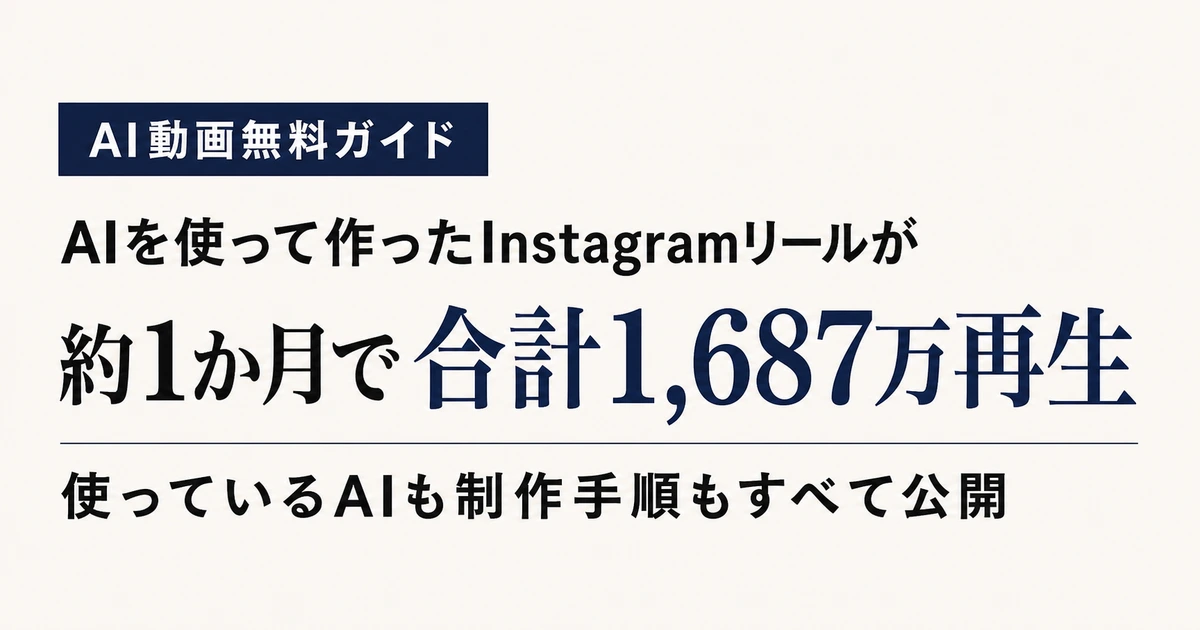
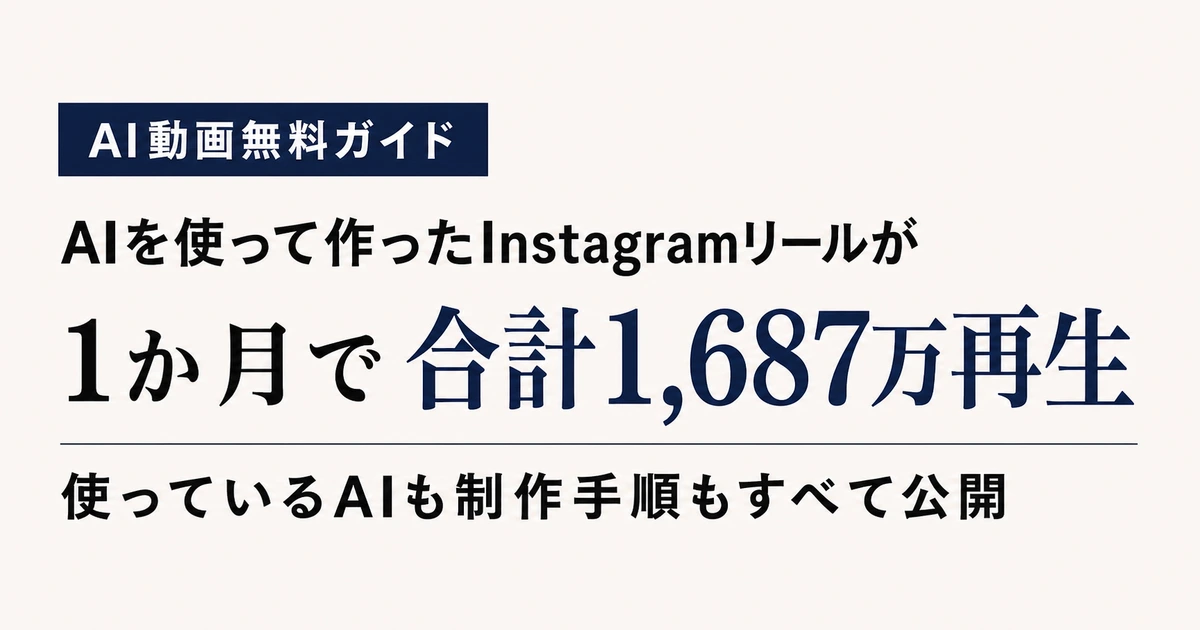
fix: finalize landing page copy and title styling

diff --git a/app/page.tsx b/app/page.tsx
@@ -5,9 +5,10 @@ import LineCta from "@/components/LineCta";
 import SectionHeading from "@/components/SectionHeading";
 
 const results = [
-  { value: "16,873,128", label: "約1か月の合計再生数" },
-  { value: "50万回以上", label: "投稿動画1本あたりの平均再生数", note: "※対象期間に投稿したすべての動画から算出" },
+  { value: "16,873,128", label: "合計再生数" },
   { value: "7,637,277", label: "リーチしたアカウント" },
+  { value: "99.1%", label: "フォロワー以外" },
+  { value: "50万回以上", label: "全投稿動画の平均再生数", note: "※公開しているすべての動画から算出" },
 ];
 
 const concerns = [
@@ -21,7 +22,7 @@ const guideBenefits = [
   {
     title: "解説動画",
     text: "実際の制作手順を 操作画面を見ながら順番に確認できます。",
-    tone: "bg-[#EEF0F6]",
+    tone: "bg-white",
     icon: "play" as const,
   },
   {
@@ -54,8 +55,8 @@ const faqs = [
     answer: "初めての人が順番に進められるように、操作画面、設定、入力する文章まで具体的に説明します。",
   },
   {
-    question: "スマホだけでも作れますか？",
-    answer: "スマホで進められる部分もありますが、画像や動画素材の管理を考えると、PCを併用した方がスムーズです。",
+    question: "スマホだけでもできますか？",
+    answer: "一部の作業はスマホだけでも進められますが、画像や動画素材の管理はPCを使った方がスムーズです。",
   },
   {
     question: "同じ再生数を出せますか？",
@@ -63,7 +64,7 @@ const faqs = [
   },
   {
     question: "どのAIを使いますか？",
-    answer: "実際に画像生成や動画化で使用しているAIと、必要な設定をガイド内で説明します。サービスの料金や仕様は変更される場合があります。",
+    answer: "画像生成AIと動画生成AIを使用します。実際に使っているAIと設定はガイド内で紹介します。",
   },
   {
     question: "7日間サポートでは何を相談できますか？",
@@ -177,20 +178,20 @@ export default function Home() {
                 <span className="block whitespace-nowrap">AIを使って作った</span>
                 <span className="block whitespace-nowrap">Instagramリールが</span>
                 <span className="mt-1 block lg:flex lg:items-baseline lg:gap-[0.18em] lg:whitespace-nowrap">
-                  <span className="block whitespace-nowrap">約1か月で</span>
+                  <span className="block whitespace-nowrap">1か月で</span>
                   <span className="block w-fit whitespace-nowrap text-[#28345C]">合計1,687万再生</span>
                 </span>
               </h1>
-              <p className="mt-7 text-[18px] font-black leading-[1.75] tracking-[-0.025em] text-[#151515] sm:text-[22px] sm:leading-[1.7]">
-                使っているAIも制作手順もすべて公開<br />
-                設定・プロンプト・操作画面まで<br />
-                実際に使っている内容を<br className="sm:hidden" />そのまままとめました
-              </p>
-              <p className="mt-5 max-w-[680px] text-[15px] leading-[1.9] text-[#6B6862] sm:text-[17px]">
-                LINEで無料ガイドを受け取れば<br />
-                実際に投稿しているリールとほぼ同じ流れで<br />
-                AI動画を自分で作れます
-              </p>
+              <div className="mt-7 grid gap-0 text-[17px] font-bold leading-[1.55] tracking-[-0.025em] text-[#151515] sm:text-[21px]">
+                <span className="block">使っているAIも制作手順もすべて公開</span>
+                <span className="block">設定・プロンプト・操作画面まで</span>
+                <span className="block">実際に使っている内容をそのまままとめました</span>
+              </div>
+              <div className="mt-8 grid max-w-[680px] gap-0 text-[15px] font-normal leading-[1.85] text-[#6B6862] sm:text-[17px]">
+                <span className="block">LINEで無料ガイドを受け取れば</span>
+                <span className="block">実際に投稿しているリールとほぼ同じ流れで</span>
+                <span className="block">AI動画を自分で作れます</span>
+              </div>
 
               <div className="mt-7 max-w-[560px]">
                 <LineCta href={lineUrl} location="hero" />
@@ -221,8 +222,8 @@ export default function Home() {
                 align="left"
               />
               <p className="mt-6 max-w-[620px] text-base leading-[1.9] text-[#6B6862] sm:text-[18px]">
-                AIを使って作ったInstagramリールの<br />
-                合計再生数は<span className="whitespace-nowrap font-bold text-[#28345C]">16,873,128</span>。<br />
+                AIを使って作ったInstagramリールは、2026年5月10日〜6月10日の1か月で
+                合計<span className="whitespace-nowrap font-bold text-[#28345C]">16,873,128再生</span>。
                 リーチしたアカウントは<span className="whitespace-nowrap font-bold text-[#151515]">7,637,277</span>でした。
               </p>
               <div className="mt-9 grid grid-cols-1 gap-3">
@@ -246,6 +247,7 @@ export default function Home() {
                   alt="2026年5月10日から6月10日のInstagramインサイト元画像"
                   width={1206}
                   height={1711}
+                  loading="eager"
                   className="h-auto w-full rounded-[20px] object-contain"
                   sizes="(max-width: 768px) 92vw, 470px"
                 />
@@ -256,7 +258,7 @@ export default function Home() {
 
         <section className="section-space bg-[#F7F6F2]" aria-labelledby="concerns-heading">
           <Container>
-            <SectionHeading id="concerns-heading" label="始められない理由" title="こんな理由で動画発信を止めていませんか？" />
+            <SectionHeading id="concerns-heading" label="始められない理由" title={<>こんな理由で動画発信を止めて<span className="whitespace-nowrap">いませんか？</span></>} />
             <div className="mt-10 grid grid-cols-2 gap-3 lg:grid-cols-4 lg:gap-5">
               {concerns.map((concern) => (
                 <div key={concern} className="rounded-[22px] border border-black/10 bg-white px-5 py-6 sm:px-6 sm:py-7">
@@ -265,20 +267,14 @@ export default function Home() {
                 </div>
               ))}
             </div>
-            <p className="mx-auto mt-10 max-w-[760px] text-center text-base font-medium leading-[2] text-[#6B6862] sm:text-lg">
-              必要なのは、出演者や高価な撮影機材ではありません。<br className="hidden sm:block" />
-              AIを使った制作の順番と実際の設定が分かれば、最初の1本を形にできます。
-            </p>
+            <p className="mx-auto mt-9 max-w-[760px] text-center text-base font-medium leading-[1.9] text-[#6B6862] sm:text-lg">AIを使った制作の順番と実際の設定が分かれば、最初の1本を形にできます。</p>
           </Container>
         </section>
 
         <section className="section-space border-y border-black/10 bg-[#EEF0F6]" aria-labelledby="guide-heading">
           <Container>
             <SectionHeading id="guide-heading" label="LINE登録特典" title="使っているAIも制作手順もすべて公開" />
-            <p className="mx-auto mt-6 max-w-[820px] text-center text-base leading-[1.9] text-[#6B6862] sm:text-[18px]">
-              実際に使っているAI・設定・プロンプト・操作画面を<br className="hidden sm:block" />
-              制作手順とあわせてすべて公開します。
-            </p>
+            <p className="mx-auto mt-6 max-w-[820px] text-center text-base leading-[1.9] text-[#6B6862] sm:text-[18px]">実際に使っているAI・設定・プロンプト・操作画面を、制作手順とあわせてすべて公開します。</p>
             <div className="mt-10 grid grid-cols-1 gap-4 sm:grid-cols-2 xl:grid-cols-4">
               {guideBenefits.map((benefit) => (
                 <article key={benefit.title} className={`rounded-[24px] border border-[#28345C]/15 p-6 shadow-[0_8px_20px_rgba(21,21,21,0.045)] transition-transform duration-200 hover:-translate-y-0.5 sm:p-7 ${benefit.tone}`}>
@@ -292,17 +288,18 @@ export default function Home() {
             </div>
             <div className="mx-auto mt-10 max-w-[560px]">
               <LineCta href={lineUrl} location="guide" />
-              <p className="mt-4 text-center text-xs leading-6 text-[#6B6862] sm:text-sm">解説動画・ツール一覧・プロンプト集・チェックリストはすべて無料です。</p>
+              <p className="mt-4 text-center text-xs leading-6 text-[#6B6862] sm:text-sm">解説動画・使用AIツール一覧・プロンプト集・制作順チェックリストはすべて無料です。</p>
             </div>
           </Container>
         </section>
 
-        <section className="border-y border-black/10 bg-white py-14 sm:py-20 lg:py-24" aria-labelledby="reason-heading">
+        <section className="section-space border-y border-black/10 bg-white" aria-labelledby="reason-heading">
           <Container size="text">
-            <SectionHeading id="reason-heading" label="無料公開の理由" title="遠回りした部分もすべて公開" align="left" />
-            <div className="mt-8 space-y-5 text-base leading-[2] text-[#6B6862] sm:text-[18px]">
-              <p>私自身、最初はどのAIを使えばいいか分からず、必要のないプランを契約したり、思うような動画が作れず、何度も生成をやり直したりしました。</p>
-              <p>これから始める人には、同じ遠回りをしてほしくありません。そこで、実際に使っている制作手順と、失敗しやすいポイントを無料でまとめました。</p>
+            <SectionHeading id="reason-heading" label="無料公開の理由" title="同じ遠回りをしてほしくないから" align="left" />
+            <div className="mt-8 max-w-[780px] space-y-5 text-base leading-[1.9] text-[#6B6862] sm:text-[18px]">
+              <p>私自身、最初はどのAIを選べばいいのか分からず、必要のないプランを契約したり、設定が分からないまま何度も生成をやり直したりしました。情報を探しても断片的なものが多く、実際に動画を作るまでの流れを理解するのに時間も費用もかかりました。</p>
+              <p>これから始める人には、同じところで迷ってほしくありません。そこで、実際に使っているAI・設定・プロンプト・操作画面・制作手順をひとつにまとめました。何を使い、どの順番で進めればいいのかを最初から確認できる内容にしています。</p>
+              <p>無料で公開する理由は、知識だけを受け取って終わるのではなく、実際に最初の1本を作れるところまで進んでもらいたいからです。</p>
             </div>
           </Container>
         </section>
@@ -311,15 +308,12 @@ export default function Home() {
           <Container size="text">
             <SectionHeading id="support-heading" label="7日間サポート" title="最初の1本を完成させるための7日間サポート" align="left" />
             <p className="mt-7 text-base leading-[1.95] text-[#6B6862] sm:text-[18px]">
-              登録後7日以内に作る最初の動画1本について、使用する画像、AIの設定、プロンプト、生成結果など、制作途中で迷った点をLINEで相談できます。
+              登録後7日以内に作る最初の動画1本について、画像生成、AIの設定、プロンプト、生成結果、制作中に起きた問題をLINEで相談できます。
             </p>
             <p className="mt-6 border-l-[3px] border-[#28345C] pl-5 text-lg font-black leading-[1.8] text-[#151515] sm:text-xl">
               ガイドを読むだけで終わらず 最初の1本を完成させるためのサポートです
             </p>
-            <p className="mt-6 text-sm leading-7 text-[#6B6862] sm:text-[15px]">
-              対象は登録後7日以内に制作する 最初の動画1本です。<br />
-              動画の制作代行ではありません。
-            </p>
+            <p className="mt-6 text-sm leading-7 text-[#6B6862] sm:text-[15px]">※サポート対象は登録後7日以内に作る最初の1本です。動画の制作代行ではありません。</p>
             <p className="mt-6 rounded-r-[16px] border-l-[3px] border-[#28345C]/55 bg-[#EEF0F6] px-5 py-4 text-sm leading-7 text-[#5E6270] sm:text-[15px]">
               ※7日間サポートは、対応可能人数に達した場合は受付を終了します。
             </p>
@@ -345,7 +339,10 @@ export default function Home() {
           </Container>
         </section>
 
-        <section className="bg-[#202945] py-16 text-white sm:py-24" aria-labelledby="final-heading">
+        <section className="relative overflow-hidden bg-[#202945] py-14 text-white sm:py-20" aria-labelledby="final-heading">
+          <span aria-hidden="true" className="pointer-events-none absolute -left-20 -top-24 size-64 rounded-full border border-[#C6A46A]/20" />
+          <span aria-hidden="true" className="pointer-events-none absolute -bottom-20 right-[8%] size-52 rounded-full border border-[#C6A46A]/15" />
+          <span aria-hidden="true" className="pointer-events-none absolute right-[12%] top-12 h-px w-28 bg-[#C6A46A]/25" />
           <Container size="text" className="text-center">
             <p className="text-sm font-bold text-white/70">完全版ガイド＋7日間サポート</p>
             <h2 id="final-heading" className="mt-4 text-[2.15rem] font-black leading-[1.25] tracking-[-0.04em] sm:text-5xl">まずは1本完成させる</h2>
@@ -354,11 +351,12 @@ export default function Home() {
             </p>
             <div className="mx-auto mt-9 max-w-[560px]">
               <LineCta href={lineUrl} location="final" />
-              <div className="mt-4 flex flex-wrap justify-center gap-x-5 gap-y-1 text-xs leading-6 text-white/60 sm:text-[13px]">
-                <span>登録後すぐに届きます</span>
+              <p className="mt-4 text-sm font-bold text-white/85">登録後すぐに完全版ガイドを受け取れます</p>
+              <div className="mt-2 flex flex-wrap justify-center gap-x-5 gap-y-1 text-xs leading-6 text-white/65 sm:text-[13px]">
+                <span>7日間サポート付き</span>
                 <span>ガイドは無料です</span>
-                <span>最初の1本まで<span className="whitespace-nowrap">7日間サポート</span></span>
               </div>
+              <p className="mt-2 text-[11px] leading-5 text-white/55 sm:text-xs">※同じ再生数や成果を保証するものではありません。</p>
             </div>
           </Container>
         </section>

diff --git a/components/SectionHeading.tsx b/components/SectionHeading.tsx
@@ -11,11 +11,19 @@ export default function SectionHeading({ id, label, title, align = "center" }: S
   const centered = align === "center";
 
   return (
-    <div className={centered ? "mx-auto max-w-[820px] text-center" : "max-w-[760px] text-left"}>
-      <p className="mb-4 inline-flex rounded-full border border-[#28345C]/10 bg-[#EEF0F6] px-3 py-1.5 text-xs font-black tracking-[0.1em] text-[#28345C] sm:text-[13px]">{label}</p>
-      <h2 id={id} className="text-[clamp(1.85rem,4vw,3rem)] font-black leading-[1.3] tracking-[-0.04em] text-[#151515]">
-        {title}
-      </h2>
+    <div className={centered ? "mx-auto max-w-[1100px]" : "max-w-[800px]"}>
+      <div className="relative overflow-hidden rounded-[16px] border border-black/10 bg-white px-5 pb-6 pt-[4.5rem] shadow-[0_10px_28px_rgba(21,21,21,0.055)] sm:rounded-[18px] sm:px-9 sm:pb-8 sm:pt-[5.25rem]">
+        <span aria-hidden="true" className="absolute bottom-4 left-5 top-4 w-px bg-[#C6A46A]/70 sm:left-7" />
+        <span aria-hidden="true" className="absolute -right-9 -top-10 size-28 rounded-full border border-[#C6A46A]/45" />
+        <span aria-hidden="true" className="absolute right-9 top-8 grid grid-cols-4 gap-2 opacity-45">
+          {Array.from({ length: 8 }, (_, index) => <span key={index} className="size-1 rounded-full bg-[#C6A46A]" />)}
+        </span>
+        <p className="absolute left-9 top-5 inline-flex rounded-full bg-[#28345C] px-4 py-2 text-xs font-black tracking-[0.08em] text-white shadow-[0_4px_12px_rgba(40,52,92,0.12)] sm:left-12 sm:text-[13px]">{label}</p>
+        <h2 id={id} className="pl-4 text-left text-[clamp(1.75rem,3.5vw,2.65rem)] font-black leading-[1.35] tracking-[-0.035em] text-[#151515] sm:pl-5">
+          {title}
+        </h2>
+        <span aria-hidden="true" className="absolute bottom-5 right-6 h-px w-16 bg-[#C6A46A]/65" />
+      </div>
     </div>
   );
 }

diff --git a/app/layout.tsx b/app/layout.tsx
@@ -2,8 +2,8 @@ import type { Metadata } from "next";
 import "./globals.css";
 
 const siteUrl = "https://ai-video-guide-lp.vercel.app";
-const title = "顔出しなしのInstagramリールで約1か月1,687万再生｜AI動画無料ガイド";
-const description = "顔出し・撮影・専門スキルなしで始めるAI動画制作。AIを使って作ったInstagramリールが、2026年5月10日から6月10日までの約1か月で合計16,873,128再生。実際に使っているAI・設定・プロンプト・操作画面を制作手順とあわせて無料公開。最初の1本まで7日間サポート付き。";
+const title = "顔出しなしのInstagramリールで1か月1,687万再生｜AI動画無料ガイド";
+const description = "AIを使って作ったInstagramリールが2026年5月10日〜6月10日の1か月で合計16,873,128再生。実際に使っているAI・設定・プロンプト・操作画面・制作手順を無料公開します。";
 
 export const metadata: Metadata = {
   metadataBase: new URL(siteUrl),
@@ -22,7 +22,7 @@ export const metadata: Metadata = {
     url: "/",
     siteName: "AI動画無料ガイド",
     locale: "ja_JP",
-    images: [{ url: "/assets/og-image.webp", width: 1200, height: 630, alt: "AIを使って作ったInstagramリールが約1か月で合計1,687万再生" }],
+    images: [{ url: "/assets/og-image.webp", width: 1200, height: 630, alt: "AIを使って作ったInstagramリールが1か月で合計1,687万再生" }],
   },
   twitter: {
     card: "summary_large_image",

diff --git a/app/globals.css b/app/globals.css
@@ -37,7 +37,7 @@ body {
 }
 
 .section-space {
-  padding-block: clamp(4.25rem, 8vw, 7rem);
+  padding-block: clamp(3.5rem, 6vw, 5.5rem);
 }
 
 .site-container {

diff --git a/README.md b/README.md
@@ -2,7 +2,7 @@
 
 Instagramから訪れたユーザーへ、顔出し・撮影・専門スキルなしで始められるAI動画制作を伝え、LINE公式アカウントへの登録につなげるランディングページです。
 
-5月10日〜6月10日のInstagram運用実績（16,873,128閲覧、フォロワー以外99.1%、リーチ7,637,277）と実際のインサイト画像を提示し、完全版ガイドと最初の1本までの7日間サポートを案内します。
+2026年5月10日〜6月10日の1か月におけるInstagram運用実績（合計16,873,128再生、フォロワー以外99.1%、リーチ7,637,277）と実際のインサイト画像を提示し、完全版ガイドと最初の1本までの7日間サポートを案内します。
 
 ## 使用技術
 
@@ -80,4 +80,4 @@ NEXT_PUBLIC_LINE_URL=https://line.me/R/ti/p/XXXXXXXX
 
 ## 表現上の注意
 
-実績表現は「約1か月で1,687万閲覧」を使用します。「再生数」への置き換えや、提示されていないフォロワー数・平均再生数の追加はしないでください。同じ閲覧数や成果を保証する表現も使用しません。
+実績表現は「1か月で合計1,687万再生」を使用します。平均再生数は公開しているすべての動画から算出した数値として扱い、同じ再生数や成果を保証する表現は使用しません。
